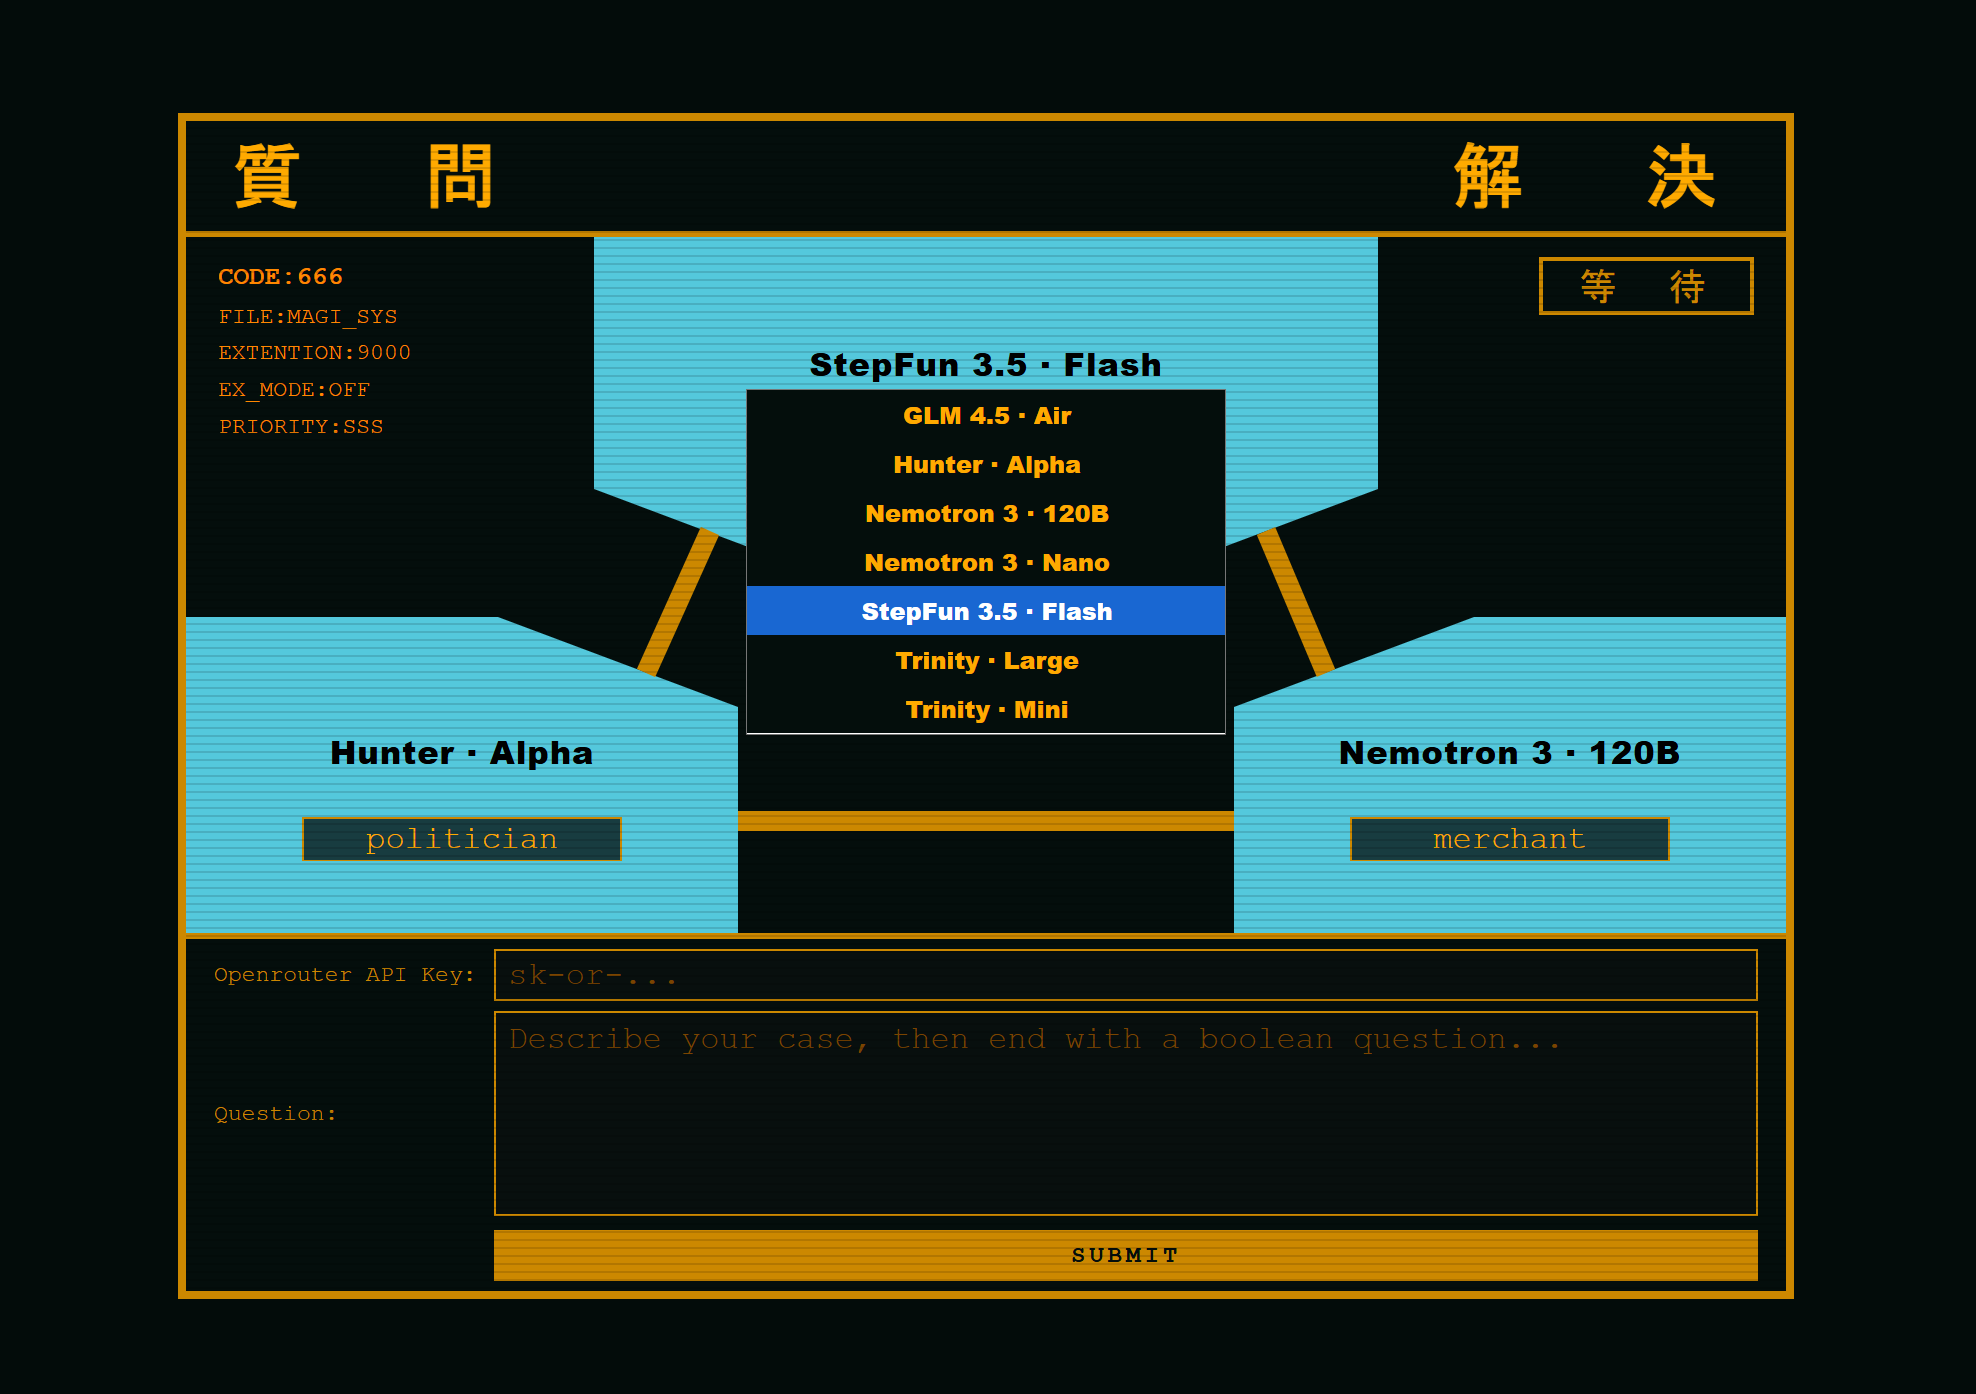
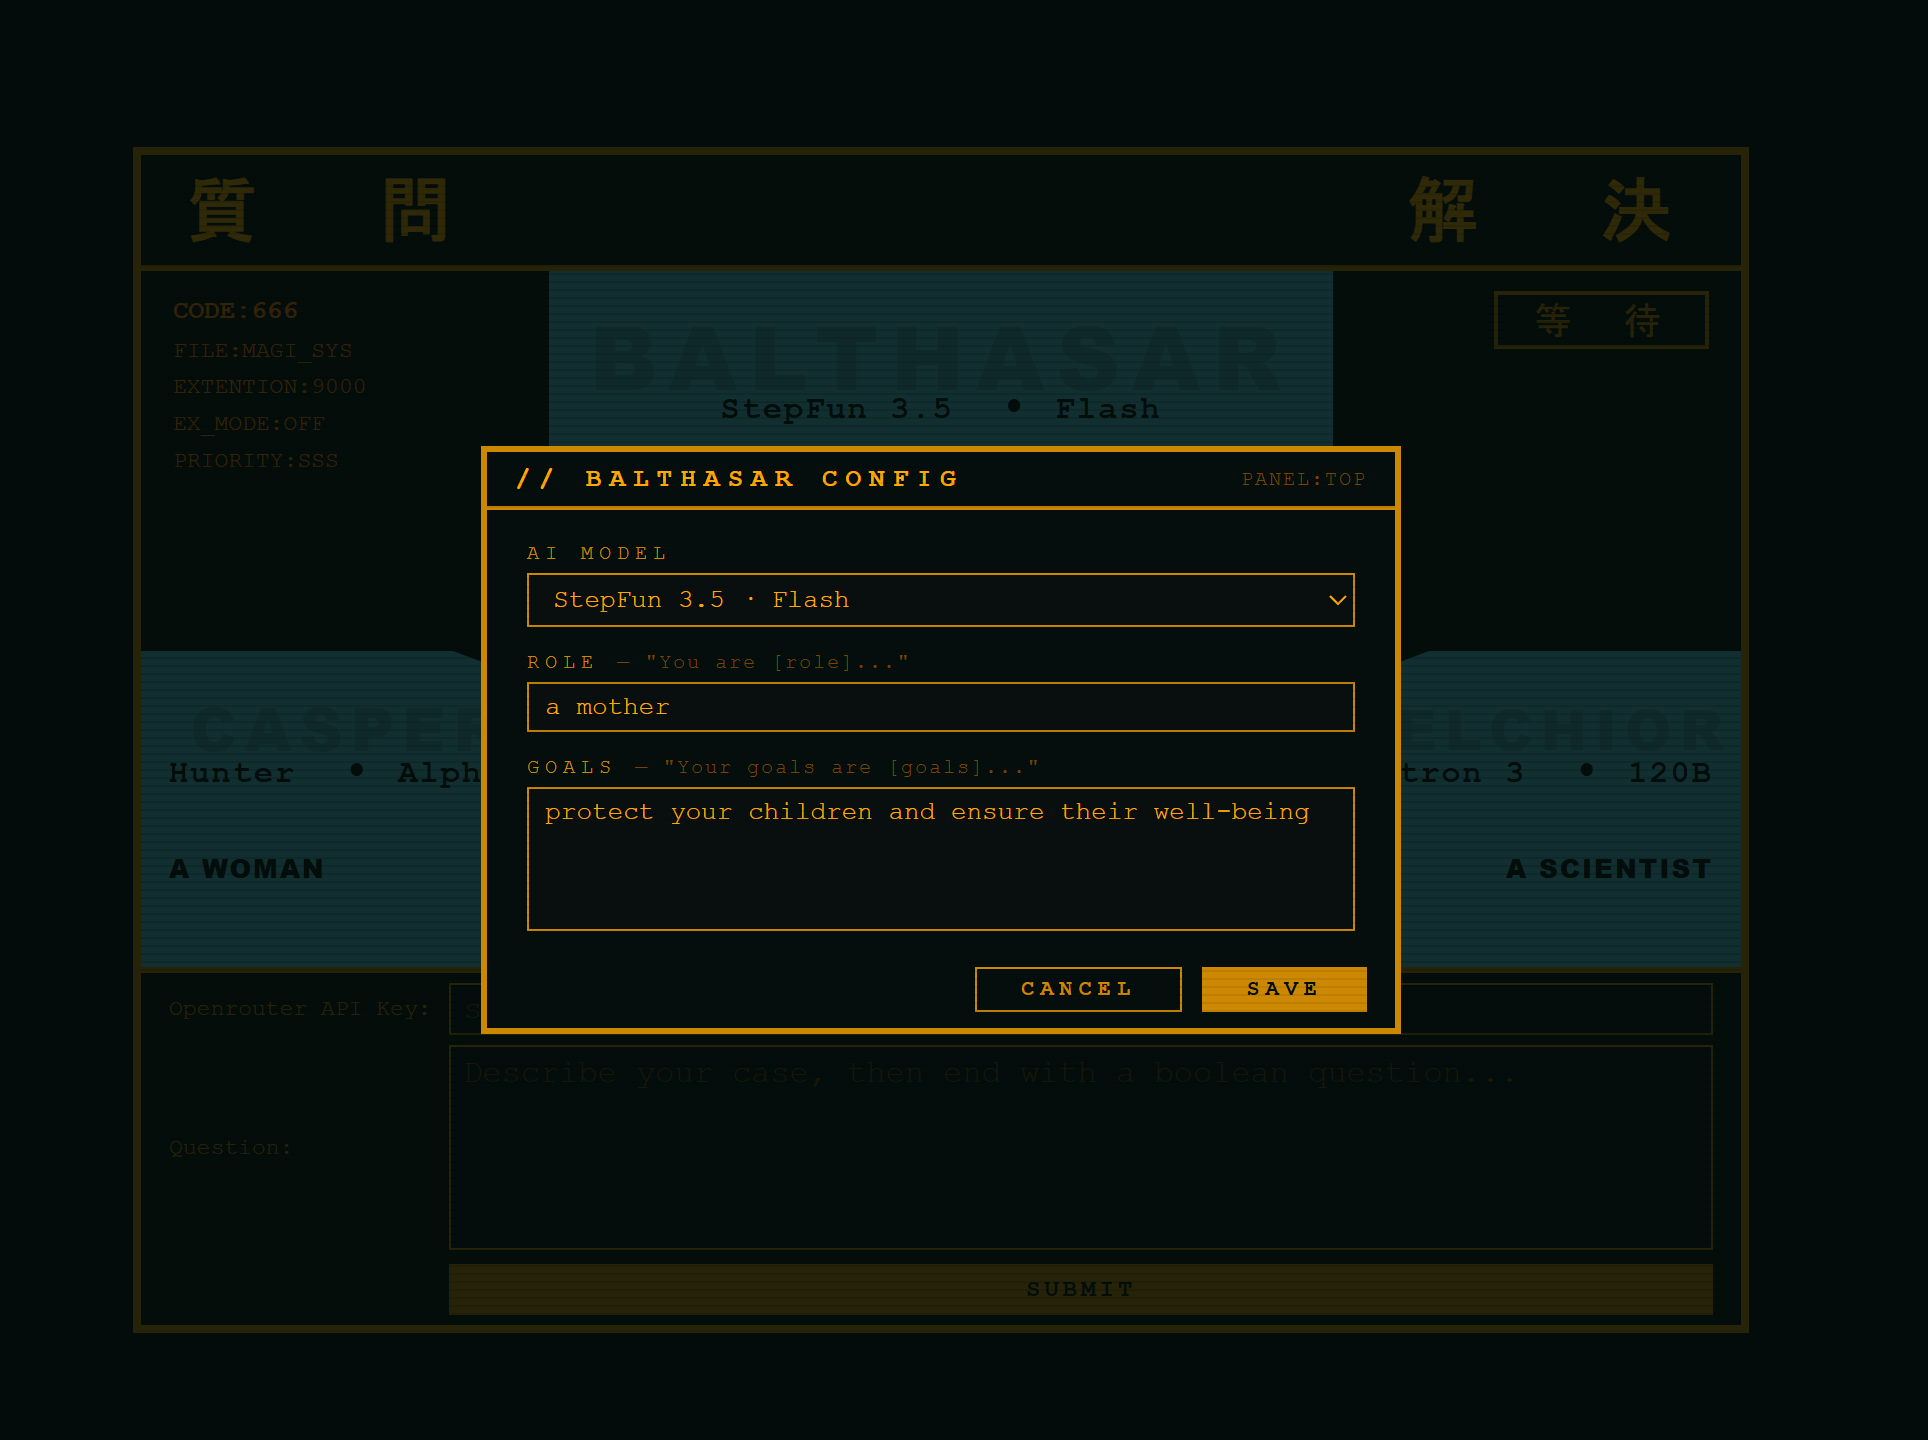
- Update ReadMe

Changed region(s): [[0.0622, 0.0617, 0.9336, 0.9562]]

diff --git a/README.md b/README.md
@@ -24,7 +24,7 @@ MIT
 ### Usage:
 1. Enter the API key
 2. Enter your question
-3. Set the role of each AI
+3. Review the role and goals of each AI.
 4. Change the AI model if you want.
 5. Submit
 6. Wait for the responses.
@@ -43,7 +43,7 @@ You can change the default value from input with id, bottom-right-system-prompt,
 ### Screenshot
 ![main.png](main.png)
 
-#### Select new AI model
+#### Select new AI model, set role and goals
 ![model_selection.png](model_selection.png)
 
 #### Report on full content and reasoning for each model.
